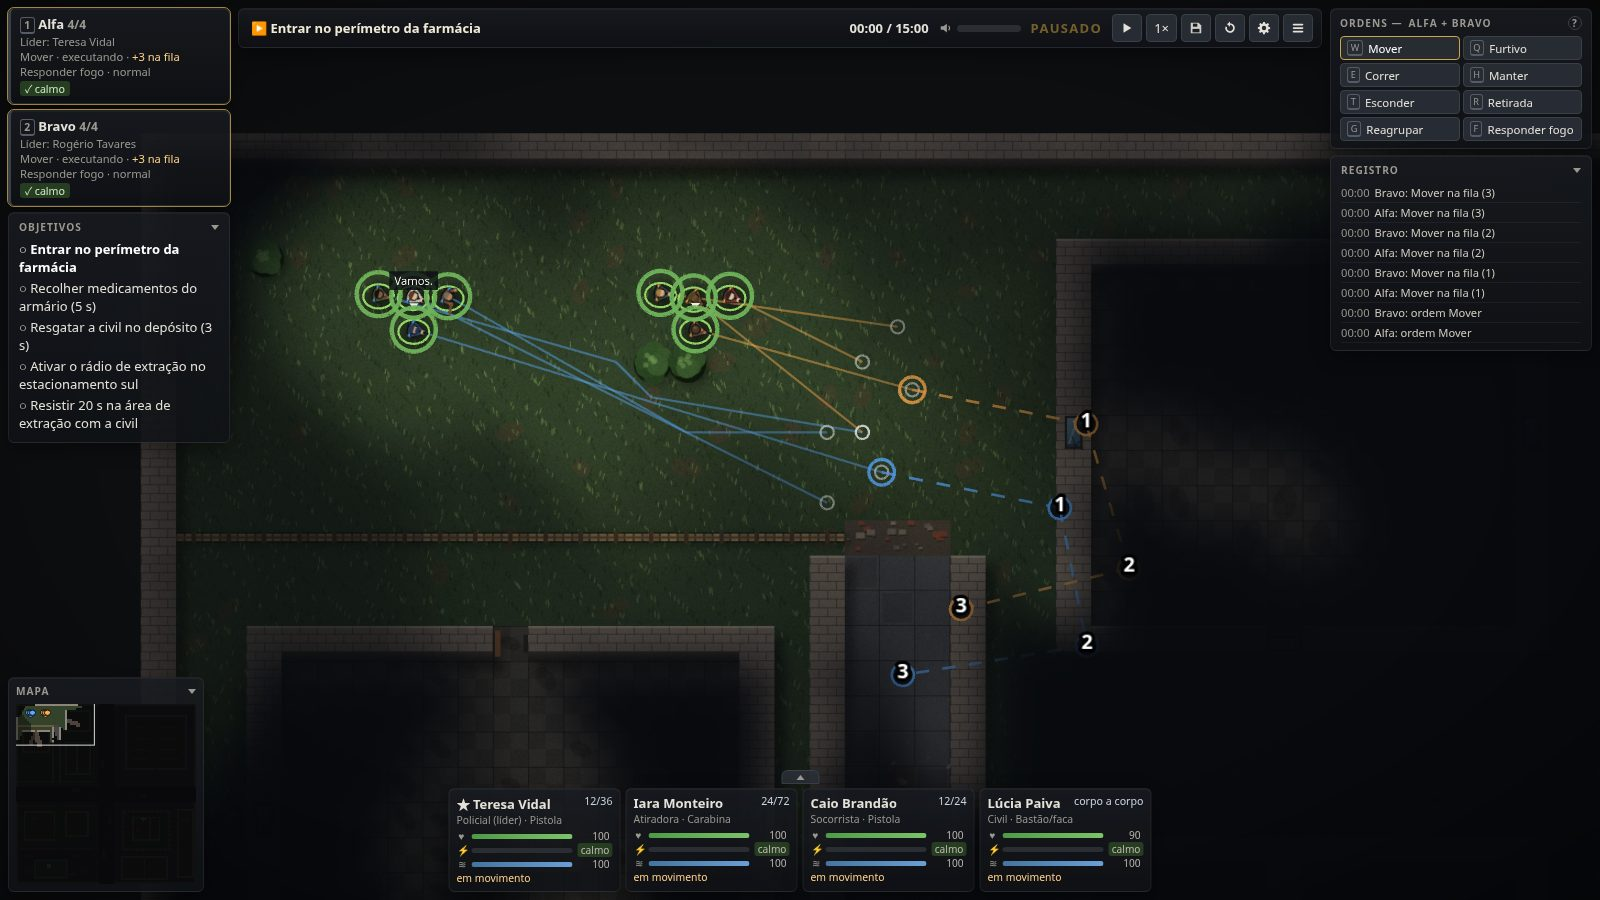
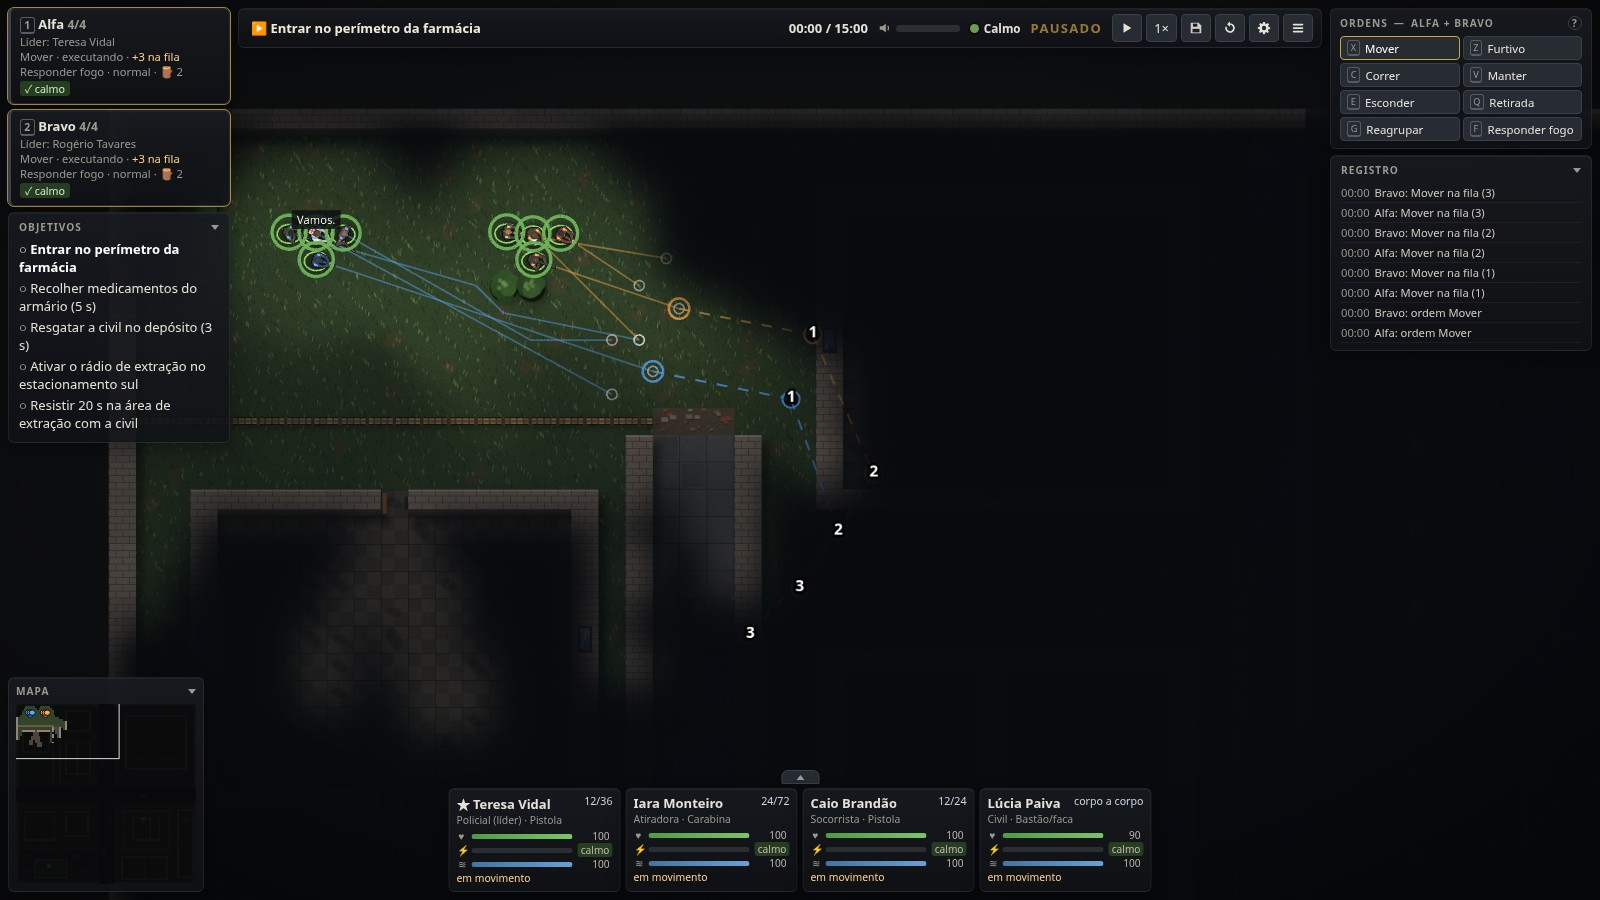
[ART] promo: script the orders, briefing, debrief and campaign shots
The rest of the README screenshots were from late October and early
November: old characters, old order keys (W/E/T) and a campaign screen
without the difficulty and squad tags. They are now captured by
shots.promo.ts too, so every README image can be taken again in one run.
The debrief follows the stealth route, which ends with grade A. The
trailer was cut again with the new campaign still.

diff --git a/apps/web/promo/shots.promo.ts b/apps/web/promo/shots.promo.ts
@@ -117,3 +117,82 @@ test('night', async ({ page }) => {
     await shot(page, CANDIDATES ? `night-${n}` : 'night');
   }
 });
+
+// Briefing of Sinal Fraco: map, objectives and intel over the dimmed title backdrop.
+test('briefing', async ({ page }) => {
+  await page.addInitScript(() => localStorage.setItem('dead-sector:tips', '0'));
+  await page.goto('/?lang=pt-BR');
+  await page.getByTestId('btn-new-mission').click();
+  await page.getByTestId('pick-sinal-fraco').click();
+  await page.getByTestId('briefing').waitFor();
+  await page.waitForTimeout(600);
+  await shot(page, 'briefing');
+});
+
+// Two squads paused at the start, each with a move and three Shift-click waypoints queued.
+test('orders', async ({ page }) => {
+  await mission(page, 'a-ultima-farmacia');
+  const hook = <T>(fn: string) =>
+    page.evaluate(`(h => ${fn})(window.__DEAD_SECTOR__)`) as Promise<T>;
+  await page.keyboard.press('Space');
+  await page.getByTestId('paused-flag').waitFor();
+  await hook('h.centerOn(18, 9)');
+  await page.waitForTimeout(200);
+  const at = (x: number, y: number) =>
+    hook<{ x: number; y: number }>(`h.worldToScreen(${x}, ${y})`);
+  // drag a box around both squads, starting clear of the left HUD
+  const a = await at(5.4, 3);
+  const b = await at(19, 9);
+  await page.mouse.move(a.x, a.y);
+  await page.mouse.down();
+  await page.mouse.move((a.x + b.x) / 2, (a.y + b.y) / 2, { steps: 4 });
+  await page.mouse.move(b.x, b.y, { steps: 4 });
+  await page.mouse.up();
+  const route: [number, number][] = [
+    [20.5, 8.5],
+    [25.5, 9.5],
+    [27.5, 14.5],
+    [24.5, 18.5],
+  ];
+  for (const [i, [x, y]] of route.entries()) {
+    const p = await at(x, y);
+    if (i > 0) await page.keyboard.down('Shift');
+    await page.mouse.click(p.x, p.y, { button: 'right' });
+    if (i > 0) await page.keyboard.up('Shift');
+  }
+  // orders given while paused apply on the next tick: step one (the clock still reads 00:00)
+  await hook('h.fastForward(1)');
+  // the squads' bark and the queue counters settle
+  await page.mouse.move(800, 860);
+  await page.waitForTimeout(500);
+  await shot(page, 'orders');
+});
+
+// Debriefing after the scripted stealth route through A Última Farmácia.
+test('debrief', async ({ page }) => {
+  await mission(page, 'a-ultima-farmacia');
+  await page.evaluate(() => (window as any).__DEAD_SECTOR__.startPlan('stealth'));
+  for (let i = 0; i < 40; i++) {
+    const done = await page.evaluate(() => {
+      const h = (window as any).__DEAD_SECTOR__;
+      h.fastForward(250);
+      return h.state().mission.status !== 'running';
+    });
+    if (done) break;
+  }
+  await page.getByTestId('debrief').waitFor({ timeout: 30_000 });
+  await page.waitForTimeout(800);
+  await shot(page, 'debrief');
+});
+
+// The campaign map on day one, at the 1280×720 the trailer's still expects.
+test('campaign', async ({ page }) => {
+  await page.setViewportSize({ width: 1280, height: 720 });
+  await page.addInitScript(() => localStorage.setItem('dead-sector:tips', '0'));
+  await page.goto('/?lang=pt-BR');
+  await page.getByTestId('btn-campaign').click();
+  await page.getByTestId('diff-normal').click();
+  await page.getByTestId('strategic').waitFor();
+  await page.waitForTimeout(600);
+  await page.screenshot({ path: `${CANDIDATES ?? OUT}campaign.png` });
+});

diff --git a/TASKS.md b/TASKS.md
@@ -21,8 +21,6 @@
   and "Baixa" accordingly.
 - Snap release: register `dead-sector` in the Snap Store and connect its Builds tab (CI already builds and smoke-tests it).
 - Art, next step: textures or a sculpted pass on the models (heads and clothes).
-- README `orders.jpg` still shows the code-drawn characters: it needs Shift-click waypoints and the order menu open,
-  so it has no scripted capture yet.
 
 ## BLOCKED
 
@@ -31,9 +29,10 @@
 
 ## DONE
 
-- Promo refreshed with the current characters: README battle, menu and night shots, the store and studio-site cover,
-  and the trailer footage (`~/assets/_staging/dead-sector/trailer/dead-sector-trailer.mp4`, 30.5 s, 1080p). The menu
-  and night shots are now captured by `apps/web/promo/shots.promo.ts` like the battle shot.
+- Promo refreshed with the current characters and screens: every README screenshot (battle, menu, night, orders,
+  briefing, debrief, campaign), the store and studio-site cover, and the trailer
+  (`~/assets/_staging/dead-sector/trailer/dead-sector-trailer.mp4`, 30.5 s, 1080p). All seven screenshots are now
+  captured by `apps/web/promo/shots.promo.ts`.
 
 - Idle look-around and a reload pose: sheets grow to 14 frames. Actors that stand still for 2 s glance left and right
   (not infected closing in), and a survivor changing magazines shows the reload pose. A second crawler look (ADR
